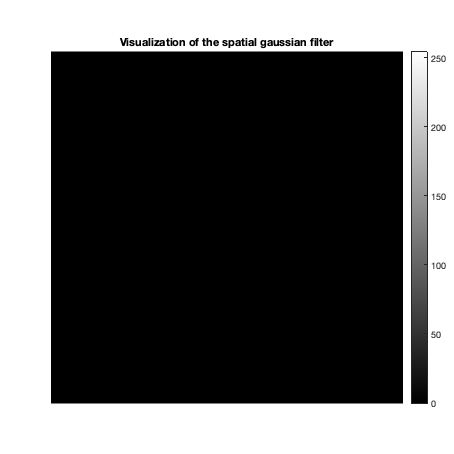
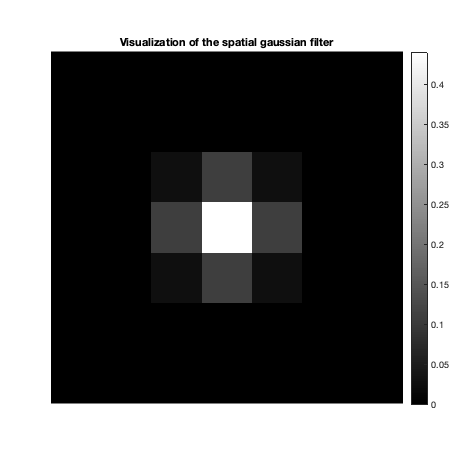
alomst done

diff --git a/A2/2/code/html/myMainScript.html b/A2/2/code/html/myMainScript.html
@@ -66,7 +66,7 @@ table td { padding:7px 5px; text-align:left; vertical-align:top; border:1px soli
 
 
 
-  </style></head><body><div class="content"><h2>Contents</h2><div><ul><li><a href="#1">MyMainScript</a></li><li><a href="#2">CS 663: Digital Image Processing, IIT Bombay (Autumn 2020)</a></li><li><a href="#3">Barbara image</a></li><li><a href="#4">best filtered image</a></li><li><a href="#5">Grass Image</a></li></ul></div><h2 id="1">MyMainScript</h2><pre class="codeinput">clc; clear <span class="string">all</span>; close <span class="string">all</span>;
+  </style></head><body><div class="content"><h2>Contents</h2><div><ul><li><a href="#1">MyMainScript</a></li><li><a href="#2">CS 663: Digital Image Processing, IIT Bombay (Autumn 2020)</a></li><li><a href="#3">Barbara image</a></li><li><a href="#4">Best values</a></li><li><a href="#5">Grass Image</a></li><li><a href="#6">Best values</a></li></ul></div><h2 id="1">MyMainScript</h2><pre class="codeinput">clc; clear <span class="string">all</span>; close <span class="string">all</span>;
 warning(<span class="string">'off'</span>, <span class="string">'all'</span>);
 
 tic;
@@ -74,23 +74,16 @@ tic;
 <span class="comment">% Edge-preserving Smoothing using Bilateral Filtering.</span>
 <span class="comment">% Assuming equal dimensions</span>
 </pre><h2 id="3">Barbara image</h2><pre class="codeinput">img_barbara = load(<span class="string">'../data/barbara.mat'</span>);
-img_barbara = double(img_barbara.imageOrig);
-noisy_barbara = addGaussianNoise(img_barbara, 0.05);
-</pre><h2 id="4">best filtered image</h2><pre class="codeinput">displayImage(img_barbara, <span class="string">'Original barbara image'</span>);
-displayImage(noisy_barbara, sprintf(<span class="string">'Barbara image with Gaussian noise (RMSD=%f)'</span>, myRMSD(img_barbara, noisy_barbara)));
-
-sigma_intensity = 5;
-sigma_spatial = 3;
-denoised_barbara = myBilateralFiltering(noisy_barbara, sigma_intensity, sigma_spatial);
-displayImage(denoised_barbara, sprintf(<span class="string">'Barbara image with Bilateral Filtering (RMSD=%f)'</span>, myRMSD(img_barbara, denoised_barbara)));
-window_size = 6*sigma_spatial+1;
-spatial_filter = fspecial(<span class="string">'gaussian'</span>, [window_size, window_size], sigma_spatial);
-displayImage(spatial_filter, <span class="string">'Visualization of the spatial gaussian filter'</span>);
+img_barbara = im2double(img_barbara.imageOrig);
+</pre><h2 id="4">Best values</h2><pre class="codeinput">sigma_intensity = 15;
+sigma_spatial = 0.6;
+showBest(img_barbara, <span class="string">'Barbara'</span>, sigma_intensity, sigma_spatial, 7)
+</pre><pre class="codeoutput">Optimal parameters: sigma_spatial = 0.600000 sigma_intensity = 15.000000 obtaining RMSD = 3.559708
 </pre><img vspace="5" hspace="5" src="myMainScript_01.png" alt=""> <img vspace="5" hspace="5" src="myMainScript_02.png" alt=""> <img vspace="5" hspace="5" src="myMainScript_03.png" alt=""> <img vspace="5" hspace="5" src="myMainScript_04.png" alt=""> <h2 id="5">Grass Image</h2><pre class="codeinput">img_grass = imread(<span class="string">'../data/grass.png'</span>);
 img_grass = double(img_grass);
-sigma_intensity = 5;
-sigma_spatial = 3;
-showBest(img_grass, <span class="string">'Grass'</span>, sigma_intensity, sigma_spatial);
+</pre><h2 id="6">Best values</h2><pre class="codeinput">sigma_intensity = 15;
+sigma_spatial = 0.6;
+showBest(img_grass, <span class="string">'Grass'</span>, sigma_intensity, sigma_spatial, 7);
 <span class="comment">%</span>
 <span class="comment">%</span>
 <span class="comment">% img_honey = imread('../data/honeyCombReal.png');</span>
@@ -99,7 +92,8 @@ showBest(img_grass, <span class="string">'Grass'</span>, sigma_intensity, sigma_
 
 
 toc;
-</pre><pre class="codeoutput">Elapsed time is 7.691756 seconds.
+</pre><pre class="codeoutput">Optimal parameters: sigma_spatial = 0.600000 sigma_intensity = 15.000000 obtaining RMSD = 10.291430
+Elapsed time is 5.999546 seconds.
 </pre><img vspace="5" hspace="5" src="myMainScript_05.png" alt=""> <img vspace="5" hspace="5" src="myMainScript_06.png" alt=""> <img vspace="5" hspace="5" src="myMainScript_07.png" alt=""> <img vspace="5" hspace="5" src="myMainScript_08.png" alt=""> <p class="footer"><br><a href="https://www.mathworks.com/products/matlab/">Published with MATLAB&reg; R2019a</a><br></p></div><!--
 ##### SOURCE BEGIN #####
 %% MyMainScript
@@ -120,27 +114,22 @@ tic;
 
 %% Barbara image
 img_barbara = load('../data/barbara.mat');
-img_barbara = double(img_barbara.imageOrig);
-noisy_barbara = addGaussianNoise(img_barbara, 0.05);
+img_barbara = im2double(img_barbara.imageOrig);
 
-%%  best filtered image
-displayImage(img_barbara, 'Original barbara image');
-displayImage(noisy_barbara, sprintf('Barbara image with Gaussian noise (RMSD=%f)', myRMSD(img_barbara, noisy_barbara)));
+%% Best values
+sigma_intensity = 15;
+sigma_spatial = 0.6;
+showBest(img_barbara, 'Barbara', sigma_intensity, sigma_spatial, 7)
 
-sigma_intensity = 5;
-sigma_spatial = 3;
-denoised_barbara = myBilateralFiltering(noisy_barbara, sigma_intensity, sigma_spatial);
-displayImage(denoised_barbara, sprintf('Barbara image with Bilateral Filtering (RMSD=%f)', myRMSD(img_barbara, denoised_barbara)));
-window_size = 6*sigma_spatial+1;
-spatial_filter = fspecial('gaussian', [window_size, window_size], sigma_spatial);
-displayImage(spatial_filter, 'Visualization of the spatial gaussian filter');
 
 %% Grass Image
 img_grass = imread('../data/grass.png');
 img_grass = double(img_grass);
-sigma_intensity = 5;
-sigma_spatial = 3;
-showBest(img_grass, 'Grass', sigma_intensity, sigma_spatial);
+
+%% Best values
+sigma_intensity = 15;
+sigma_spatial = 0.6;
+showBest(img_grass, 'Grass', sigma_intensity, sigma_spatial, 7);
 % 
 % 
 % img_honey = imread('../data/honeyCombReal.png');

diff --git a/A2/2/code/myMainScript.m b/A2/2/code/myMainScript.m
@@ -17,39 +17,37 @@ tic;
 %% Barbara image
 img_barbara = load('../data/barbara.mat');
 img_barbara = im2double(img_barbara.imageOrig);
+%% Grid Search
+i_range = 10:2:30;
+s_range = 0.3:0.1:1.5;
+[sigma_intensity, sigma_spatial] = performGridSearch(img_barbara, 'Barbara', i_range, s_range, 7);
 
 %% Best values
-sigma_intensity = 15;
-sigma_spatial = 0.6;
 showBest(img_barbara, 'Barbara', sigma_intensity, sigma_spatial, 7)
-% noisy_barbara = addGaussianNoise(img_barbara, 0.05);
-% 
-% %%  best filtered image
-% displayImage(img_barbara, 'Original barbara image');
-% displayImage(noisy_barbara, sprintf('Barbara image with Gaussian noise (RMSD=%f)', myRMSD(img_barbara, noisy_barbara)));
-% sigma_intensity = 15;
-% sigma_spatial = 0.7;
-% denoised_barbara = myBilateralFiltering(noisy_barbara, sigma_intensity, sigma_spatial, 7);
-% displayImage(denoised_barbara, sprintf('Barbara image with Bilateral Filtering (RMSD=%f)', myRMSD(img_barbara, denoised_barbara)));
-% window_size = 7;
-% spatial_filter = fspecial('gaussian', [window_size, window_size], sigma_spatial);
-% % max(spatial_filter(:))
-% % spatial_to_range = spatial_filter*255;
-% displayImage(spatial_filter, 'Visualization of the spatial gaussian filter', max(spatial_filter(:)));
+
 
 %% Grass Image
 img_grass = imread('../data/grass.png');
-img_grass = double(img_grass);
+img_grass = im2double(img_grass);
+
+%% Grid Search
+i_range = 10:2:30;
+s_range = 0.3:0.1:1.5;
+[sigma_intensity, sigma_spatial] = performGridSearch(img_grass, 'Grass', i_range, s_range, 7);
 
 %% Best values
-sigma_intensity = 15;
-sigma_spatial = 0.6;
 showBest(img_grass, 'Grass', sigma_intensity, sigma_spatial, 7);
-% 
-% 
-% img_honey = imread('../data/honeyCombReal.png');
-% displayImage(img_honey, 'Original honey image');
 
+% HoneyComb image
+img_honey = imread('../data/honeyCombReal.png');
+img_honey = im2double(img_honey);
 
+%% Grid Search
+i_range = 10:2:30;
+s_range = 0.3:0.1:1.5;
+[sigma_intensity, sigma_spatial] = performGridSearch(img_honey, 'HoneyComb', i_range, s_range, 7);
+
+%% Best values
+showBest(img_honey, 'HoneyComb', sigma_intensity, sigma_spatial, 7);
 
 toc;

diff --git a/A2/2/code/showBest.m b/A2/2/code/showBest.m
@@ -9,5 +9,18 @@ denoised = myBilateralFiltering(noisy, sigma_intensity, sigma_spatial, window_si
 displayImage(denoised, sprintf('%s image with Bilateral Filtering (RMSD=%f)',img_name, myRMSD(img, denoised)), 255);
 spatial_filter = fspecial('gaussian', window_size, sigma_spatial);
 displayImage(spatial_filter, 'Visualization of the spatial gaussian filter', max(spatial_filter(:)));
+fprintf('Optimal parameters: sigma_spatial = %f sigma_intensity = %f obtaining RMSD = %f\n', sigma_spatial, sigma_intensity, myRMSD(img, denoised));
+
+denoised_spat_9 = myBilateralFiltering(noisy, sigma_intensity, 0.9*sigma_spatial, window_size);
+fprintf('sigma_spatial*0.9 = %f,sigma_intensity = %f, obtained RMSD = %f\n', 0.9*sigma_spatial, sigma_intensity, myRMSD(img, denoised_spat_9));
+
+denoised_spat_11 = myBilateralFiltering(noisy, sigma_intensity, 1.1*sigma_spatial, window_size);
+fprintf('sigma_spatial*1.1 = %f,sigma_intensity = %f, obtained RMSD = %f\n', 1.1*sigma_spatial, sigma_intensity, myRMSD(img, denoised_spat_11));
+
+denoised_i_9 = myBilateralFiltering(noisy, 0.9*sigma_intensity, sigma_spatial, window_size);
+fprintf('sigma_spatial = %f,sigma_intensity*0.9 = %f, obtained RMSD = %f\n', sigma_spatial, 0.9*sigma_intensity, myRMSD(img, denoised_i_9));
+
+denoised_i_11 = myBilateralFiltering(noisy, 1.1*sigma_intensity, sigma_spatial, window_size);
+fprintf('sigma_spatial = %f,sigma_intensity*0.9 = %f, obtained RMSD = %f\n', sigma_spatial, 1.1*sigma_intensity, myRMSD(img, denoised_i_11));
 end
 

diff --git a/A2/2/code/performGridSearch.m b/A2/2/code/performGridSearch.m
@@ -1,0 +1,14 @@
+function [best_i, best_s] = performGridSearch(img, img_name, sigma_intensity_range, sigma_spatial_range, window_size)
+    noisy = addGaussianNoise(img, 0.05);
+    old_min = 100;
+    for si = sigma_intensity_range
+        for ss = sigma_spatial_range
+            denoised = myBilateralFiltering(noisy, si, ss, window_size);
+            if  myRMSD(img, denoised) < old_min
+                best_i = si;
+                best_s = ss;
+            end
+            fprintf('For image %s sigma_spatial = %f, sigma_intensity = %f, obtained RMSD = %f\n', img_name, ss, si, myRMSD(img, denoised));
+        end
+    end
+end
